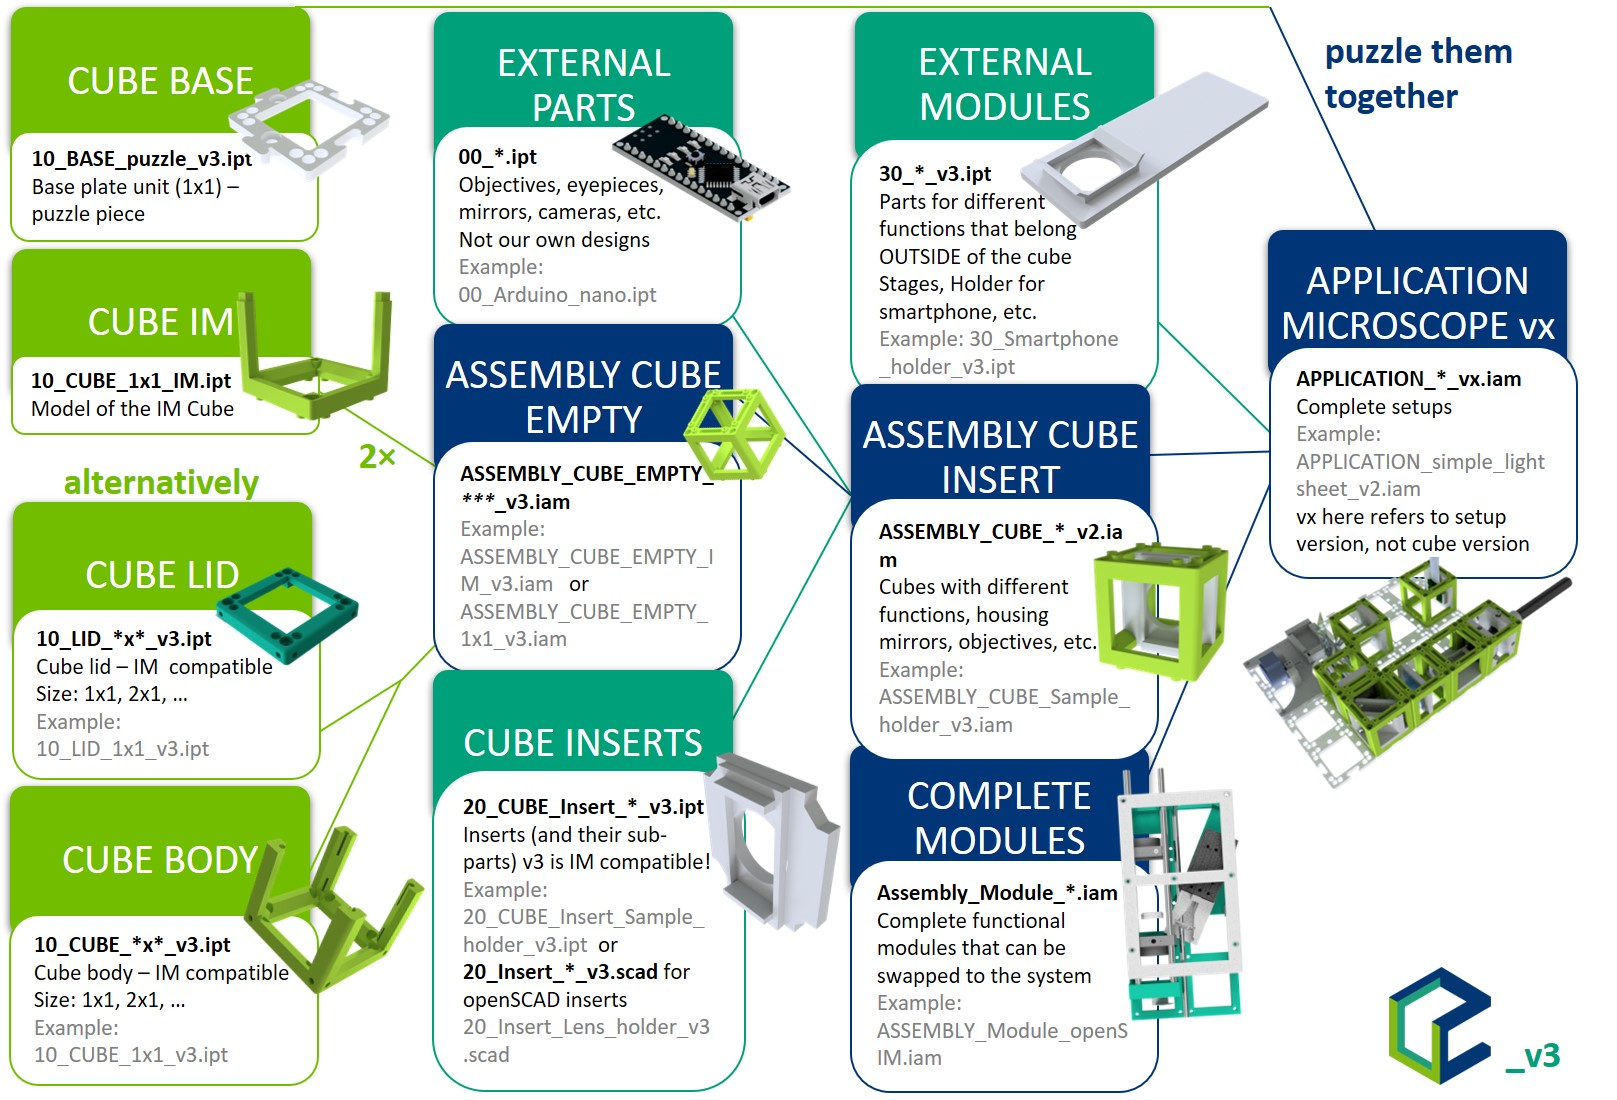
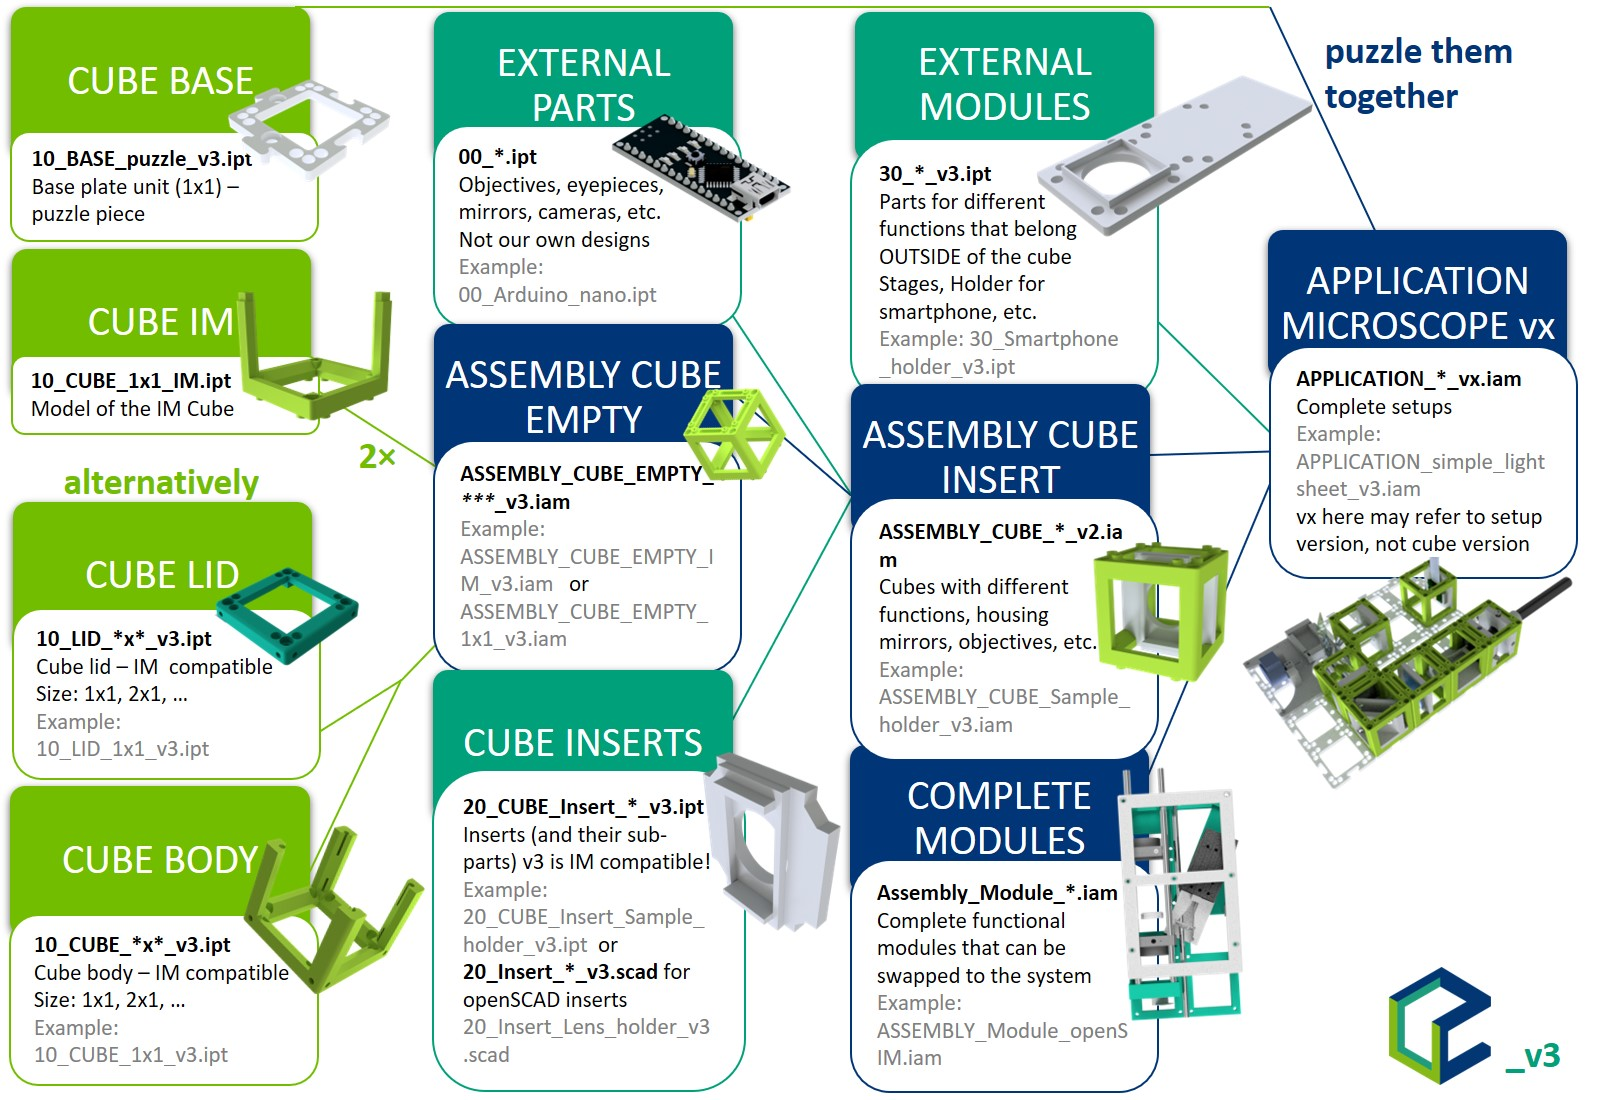
MDK images updated
updated baseplate introduction

Changed region(s): [[0.6184, 0.0618, 0.804, 0.2164], [0.8349, 0.4636, 0.9586, 0.4945]]

diff --git a/CAD/ASSEMBLY_Baseplate/Readme.md b/CAD/ASSEMBLY_Baseplate/Readme.md
@@ -12,16 +12,18 @@ Baseplates serve as a spine of any setup you build using the cubes. The basic un
 <img src="./IMAGES/10_Base_puzzle_v3.png" width="200">
 </p>
 
-The puzzle pieces can be arbitrarily combined into a baseplate of a desired size and shape. For better stability, the baseplate can be screwed to a Thorlabs breadboard, optical table or a wooden board.
+The puzzle pieces can be arbitrarily combined into a baseplate of a desired size and shape. For better stability, the baseplate can be screwed to a Thorlabs breadboard, optical table or a wooden board. An example of a 'flat' setup is the light sheet microscope.
 
 <p align="center">
 <img src="./IMAGES/10_Base_puzzle_v3_02.png" width="350">
+<img src="../../APPLICATIONS/APP_LIGHTSHEET_Workshop/IMAGES/Application_Light_Sheet_Microscope_v3.png" width="400">
 </p>
 
-The baseplates can be also concatenated in third dimension,  being build in a "sandwich"-like structure.
+The baseplates can be also concatenated in third dimension,  being build in a "sandwich"-like structure. An example of a 'sandwich' setup is the incubator microscope. 
 
 <p align="center">
 <img src="./IMAGES/10_Base_puzzle_v3_03.png" width="200">
+<img src="../../APPLICATIONS/APP_Incubator_Microscope/IMAGES/Application_Incubator_Microscope_v3.png" width="180">
 </p>
 
 ## Parts

diff --git a/DOCUMENTS/Readme.md b/DOCUMENTS/Readme.md
@@ -1,1 +1,1 @@
-# This folder contains documents necessary for the [UC2 configurator](https://uc2configurator.netlify.app/). To find out more about the configurator itself visit a [dedicated GitHub](https://github.com/bionanoimaging/uc2-configurator).
+# This folder contains the documents necessary for the [UC2 configurator](https://uc2configurator.netlify.app/). To find out more about the configurator itself visit a [dedicated GitHub](https://github.com/bionanoimaging/uc2-configurator).
